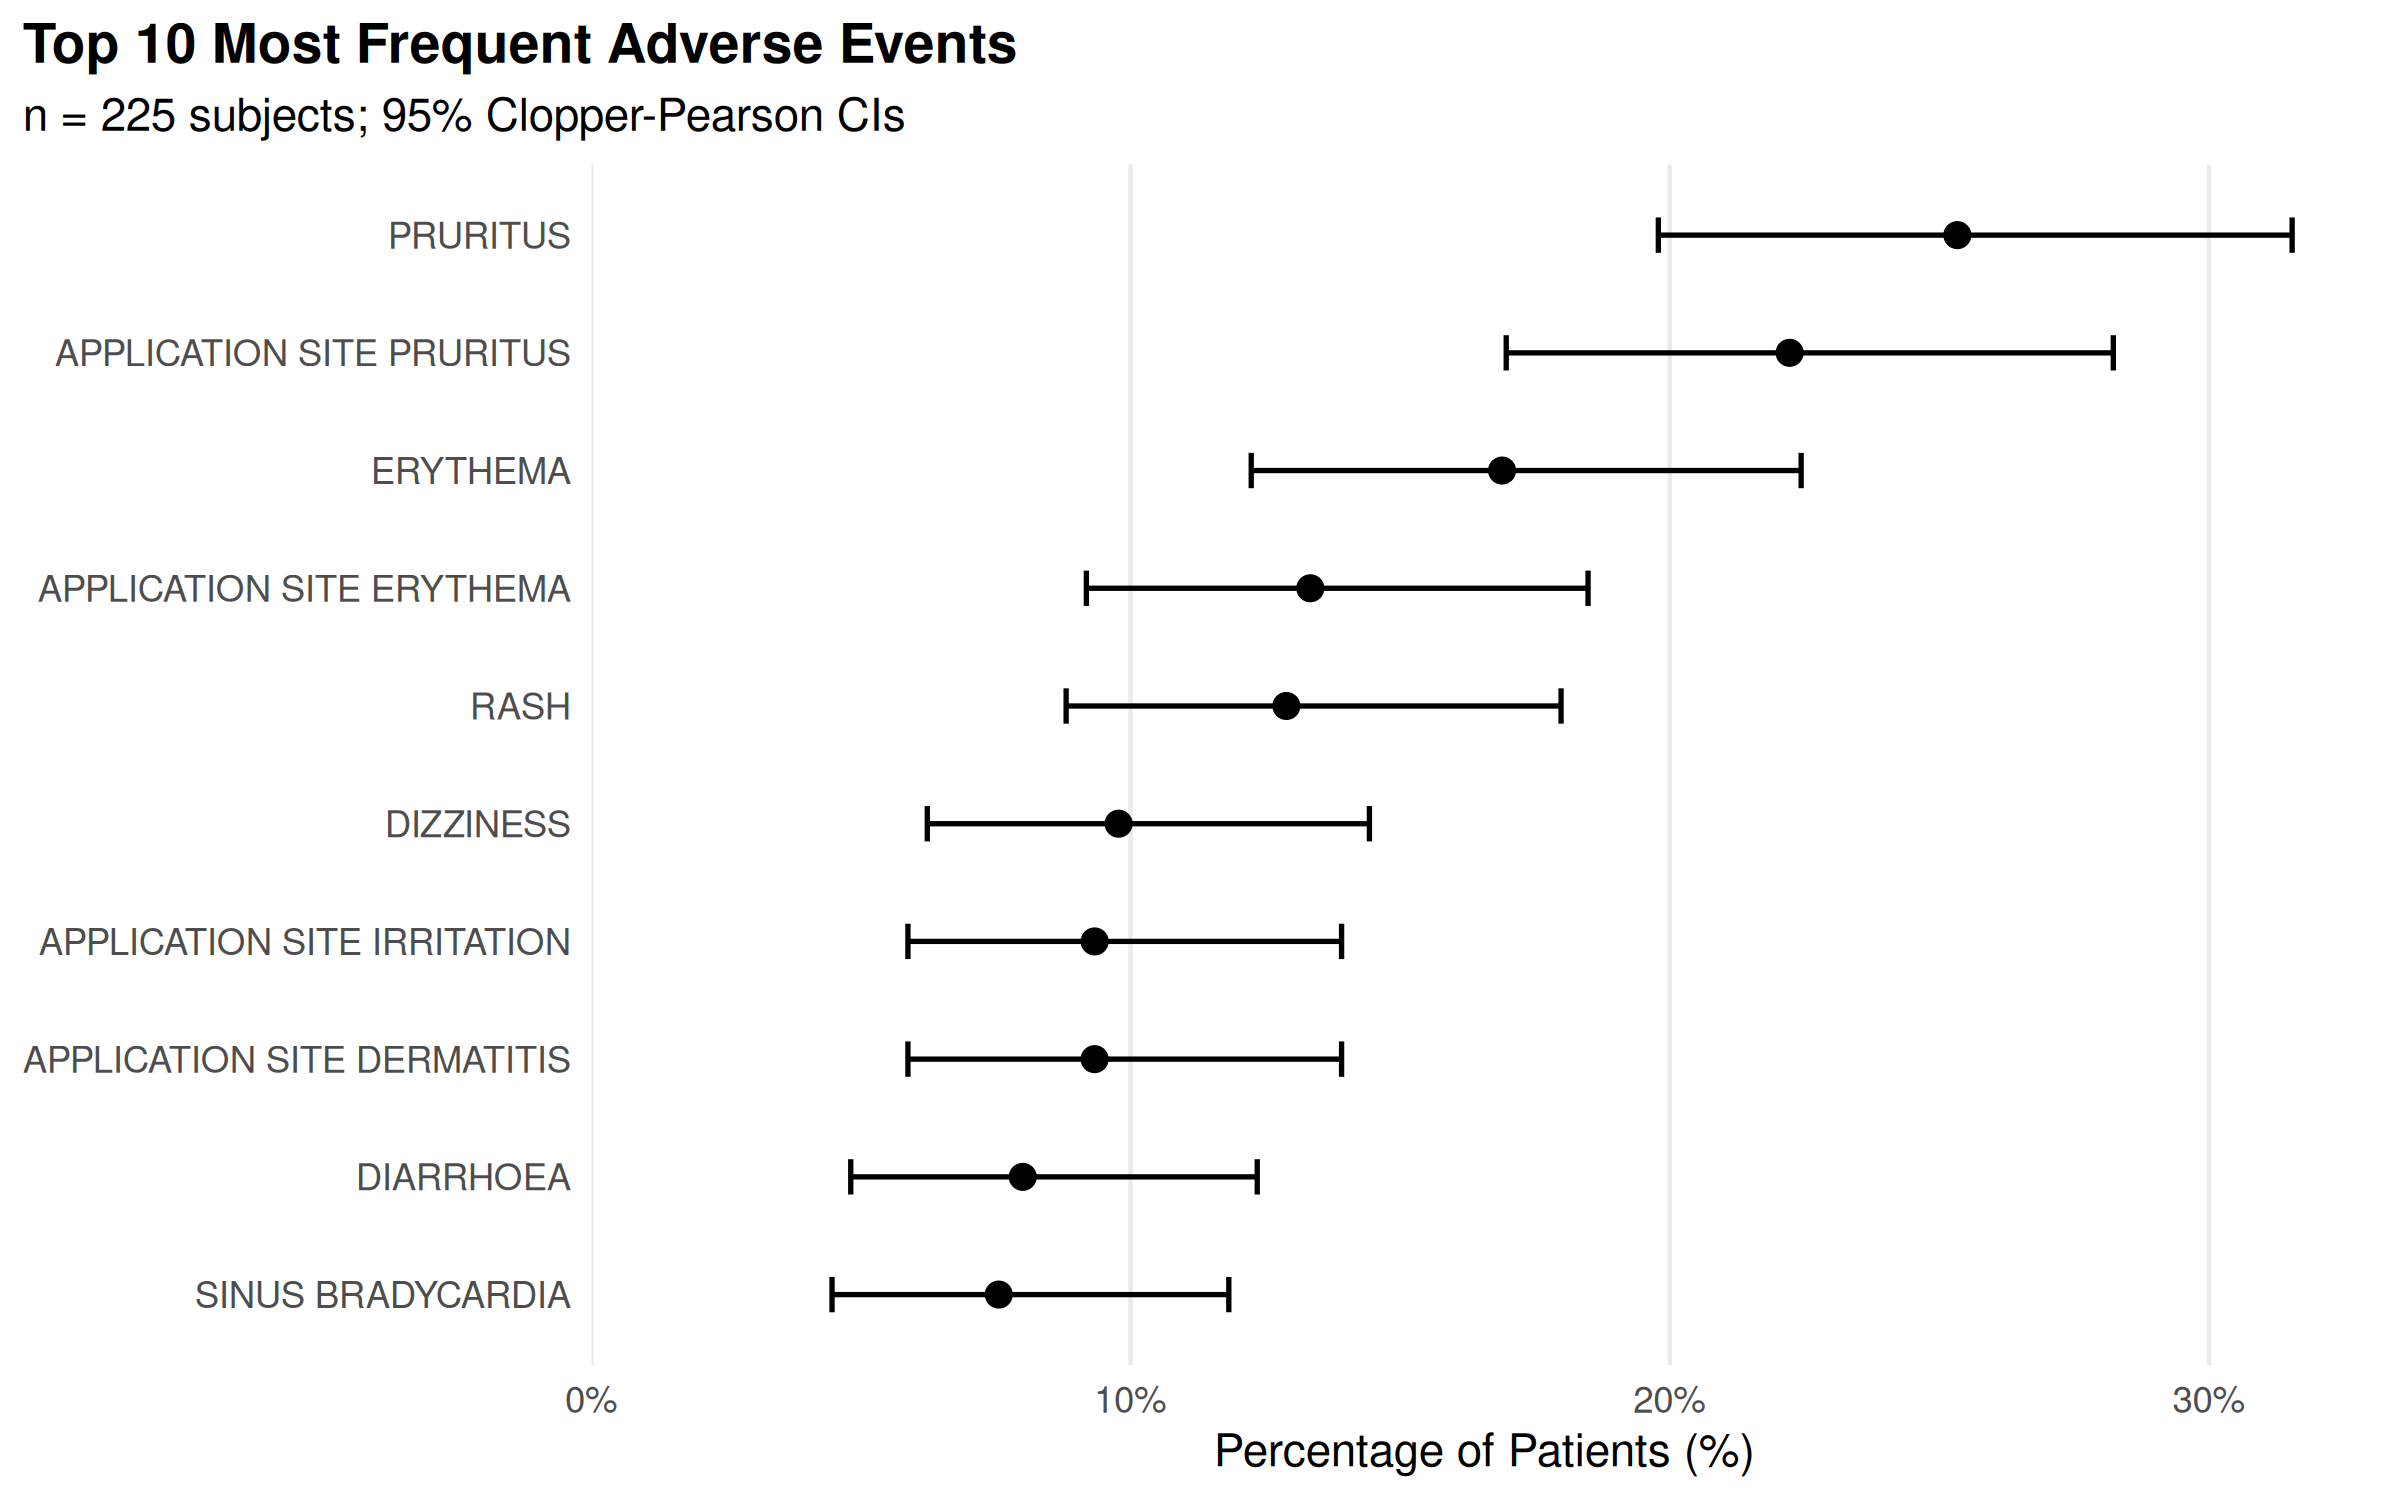
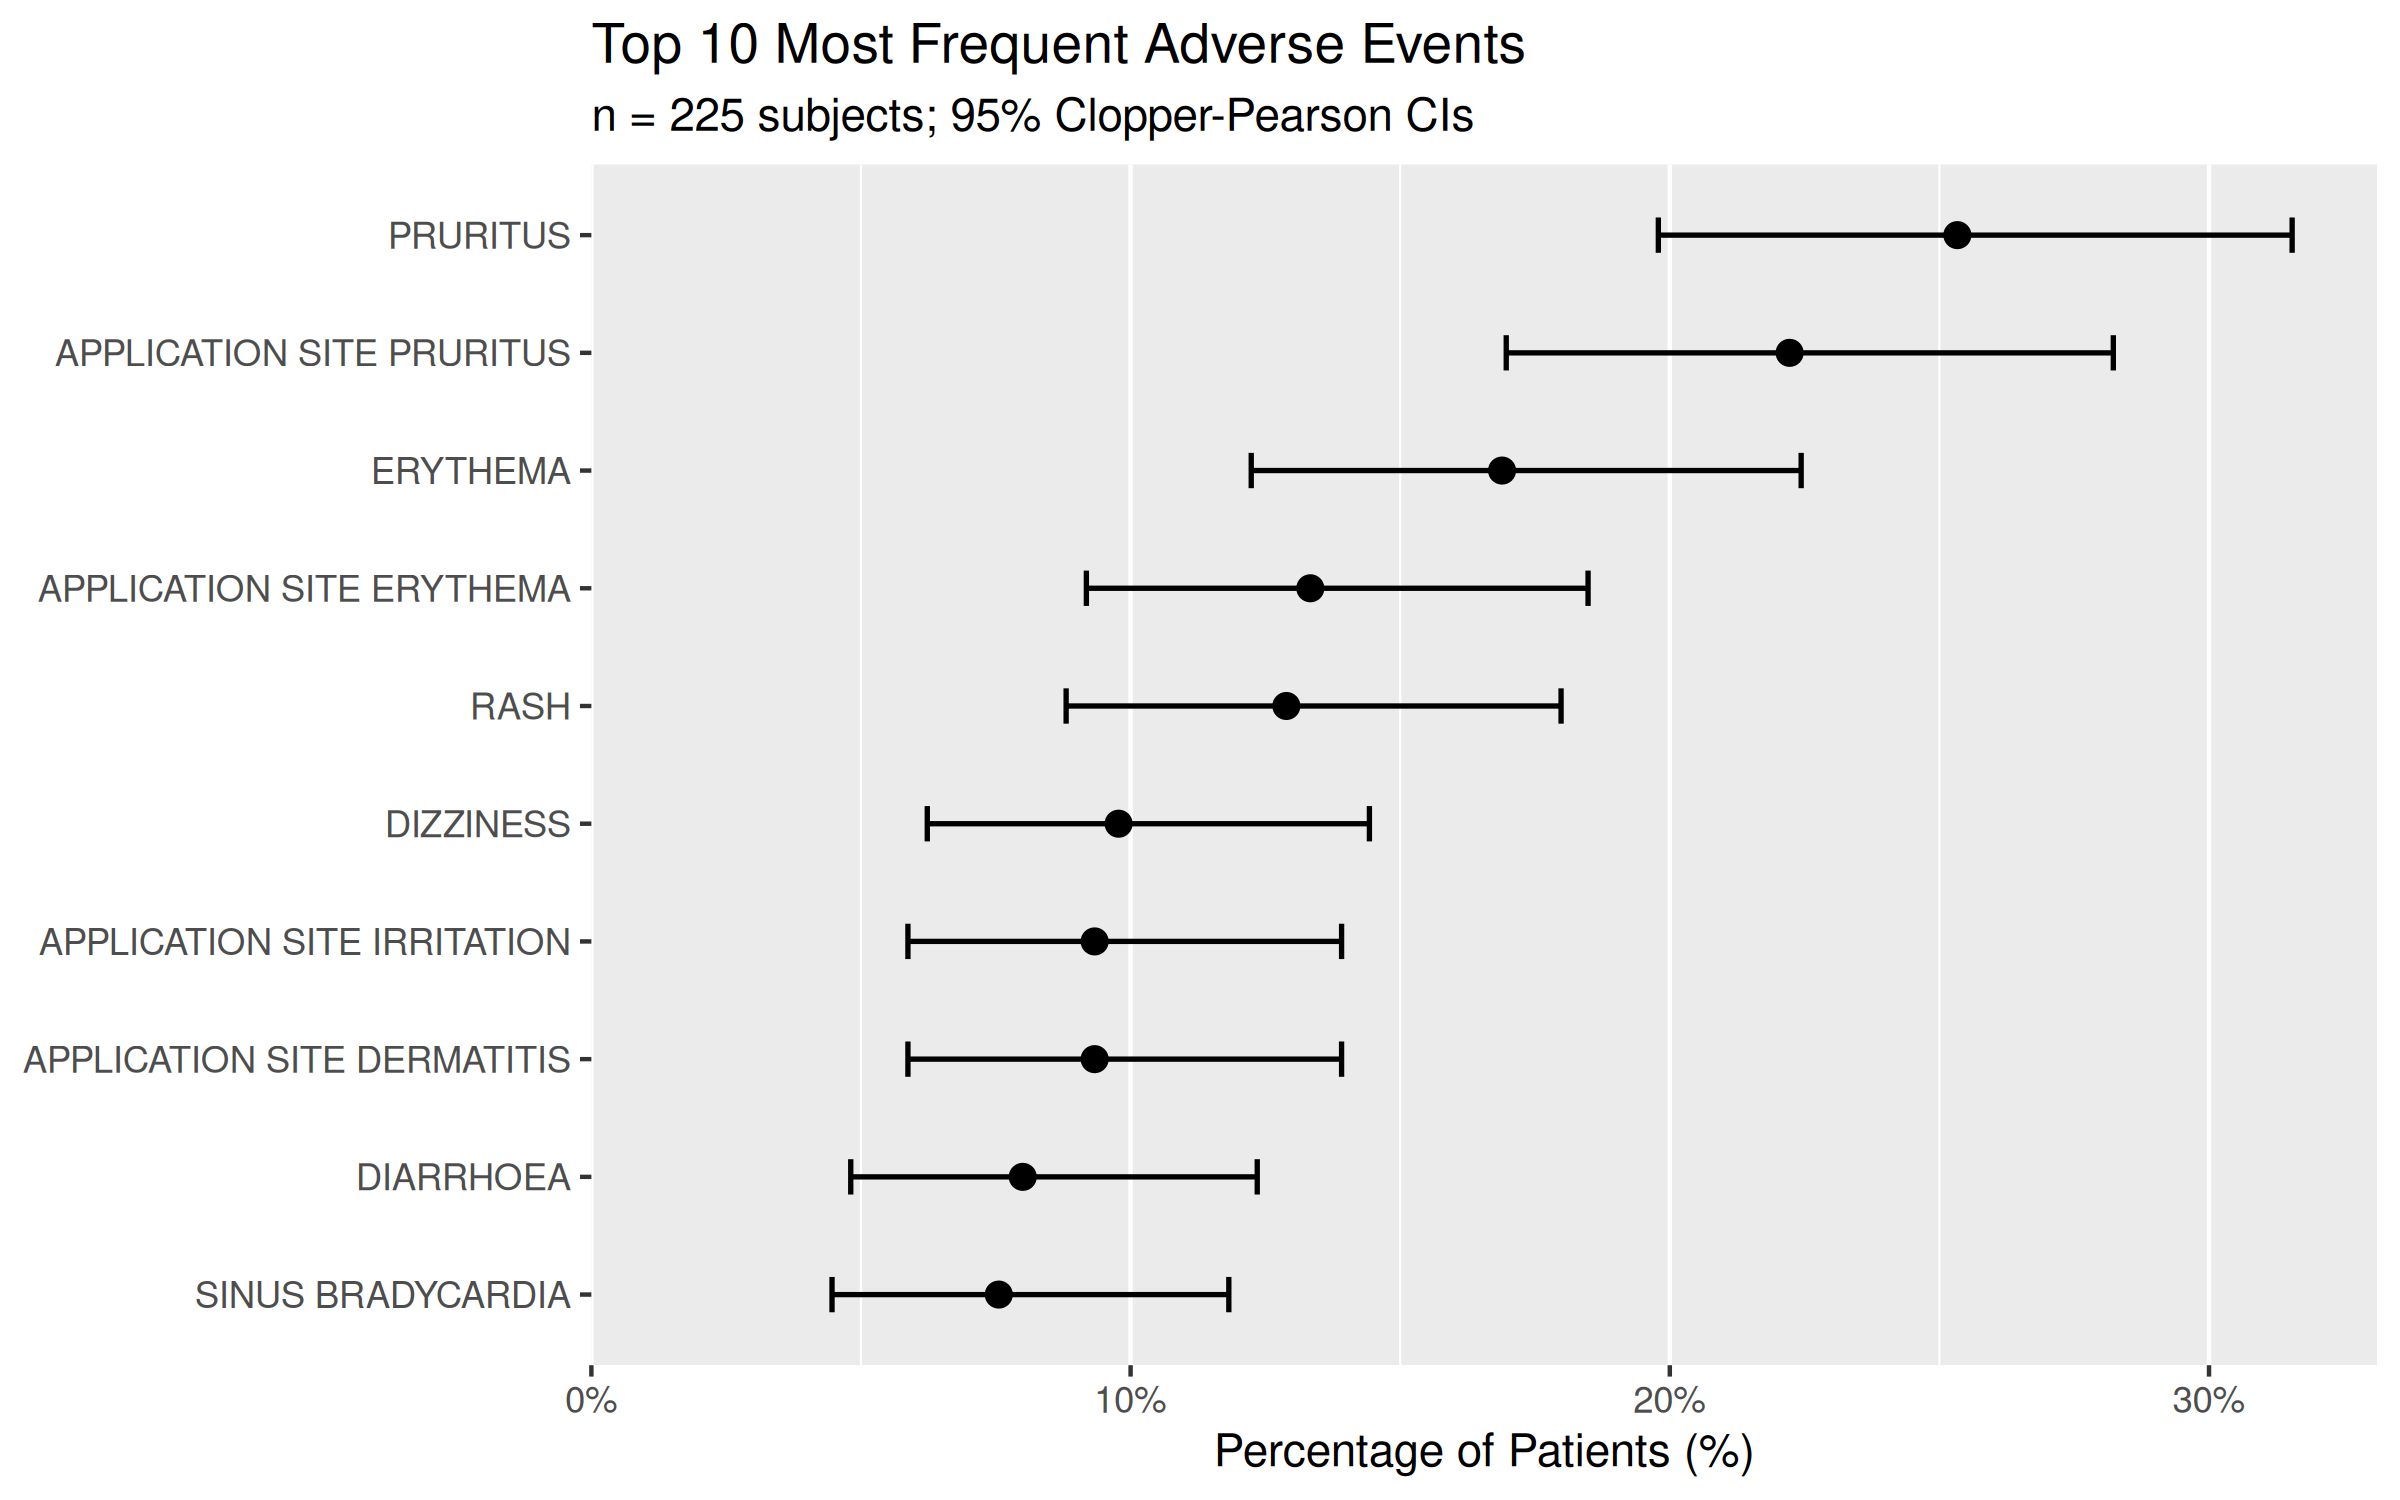
changed plot theme to match example in assessment

Changed region(s): [[0.0, 0.0, 0.625, 0.092]]

diff --git a/question_3_tlg/output/ae_summary_table.html b/question_3_tlg/output/ae_summary_table.html
@@ -7,23 +7,23 @@
 
 </head>
 <body>
-<div id="damndconpb" style="padding-left:0px;padding-right:0px;padding-top:10px;padding-bottom:10px;overflow-x:auto;overflow-y:auto;width:auto;height:auto;">
-  <style>#damndconpb table {
+<div id="gvdajnyocy" style="padding-left:0px;padding-right:0px;padding-top:10px;padding-bottom:10px;overflow-x:auto;overflow-y:auto;width:auto;height:auto;">
+  <style>#gvdajnyocy table {
   font-family: system-ui, 'Segoe UI', Roboto, Helvetica, Arial, sans-serif, 'Apple Color Emoji', 'Segoe UI Emoji', 'Segoe UI Symbol', 'Noto Color Emoji';
   -webkit-font-smoothing: antialiased;
   -moz-osx-font-smoothing: grayscale;
 }
 
-#damndconpb thead, #damndconpb tbody, #damndconpb tfoot, #damndconpb tr, #damndconpb td, #damndconpb th {
+#gvdajnyocy thead, #gvdajnyocy tbody, #gvdajnyocy tfoot, #gvdajnyocy tr, #gvdajnyocy td, #gvdajnyocy th {
   border-style: none;
 }
 
-#damndconpb p {
+#gvdajnyocy p {
   margin: 0;
   padding: 0;
 }
 
-#damndconpb .gt_table {
+#gvdajnyocy .gt_table {
   display: table;
   border-collapse: collapse;
   line-height: normal;
@@ -49,12 +49,12 @@
   border-left-color: #D3D3D3;
 }
 
-#damndconpb .gt_caption {
+#gvdajnyocy .gt_caption {
   padding-top: 4px;
   padding-bottom: 4px;
 }
 
-#damndconpb .gt_title {
+#gvdajnyocy .gt_title {
   color: #333333;
   font-size: 125%;
   font-weight: initial;
@@ -66,7 +66,7 @@
   border-bottom-width: 0;
 }
 
-#damndconpb .gt_subtitle {
+#gvdajnyocy .gt_subtitle {
   color: #333333;
   font-size: 85%;
   font-weight: initial;
@@ -78,7 +78,7 @@
   border-top-width: 0;
 }
 
-#damndconpb .gt_heading {
+#gvdajnyocy .gt_heading {
   background-color: #FFFFFF;
   text-align: center;
   border-bottom-color: #FFFFFF;
@@ -90,13 +90,13 @@
   border-right-color: #D3D3D3;
 }
 
-#damndconpb .gt_bottom_border {
+#gvdajnyocy .gt_bottom_border {
   border-bottom-style: solid;
   border-bottom-width: 2px;
   border-bottom-color: #D3D3D3;
 }
 
-#damndconpb .gt_col_headings {
+#gvdajnyocy .gt_col_headings {
   border-top-style: solid;
   border-top-width: 2px;
   border-top-color: #D3D3D3;
@@ -111,7 +111,7 @@
   border-right-color: #D3D3D3;
 }
 
-#damndconpb .gt_col_heading {
+#gvdajnyocy .gt_col_heading {
   color: #333333;
   background-color: #FFFFFF;
   font-size: 100%;
@@ -131,7 +131,7 @@
   overflow-x: hidden;
 }
 
-#damndconpb .gt_column_spanner_outer {
+#gvdajnyocy .gt_column_spanner_outer {
   color: #333333;
   background-color: #FFFFFF;
   font-size: 100%;
@@ -143,15 +143,15 @@
   padding-right: 4px;
 }
 
-#damndconpb .gt_column_spanner_outer:first-child {
+#gvdajnyocy .gt_column_spanner_outer:first-child {
   padding-left: 0;
 }
 
-#damndconpb .gt_column_spanner_outer:last-child {
+#gvdajnyocy .gt_column_spanner_outer:last-child {
   padding-right: 0;
 }
 
-#damndconpb .gt_column_spanner {
+#gvdajnyocy .gt_column_spanner {
   border-bottom-style: solid;
   border-bottom-width: 2px;
   border-bottom-color: #D3D3D3;
@@ -163,11 +163,11 @@
   width: 100%;
 }
 
-#damndconpb .gt_spanner_row {
+#gvdajnyocy .gt_spanner_row {
   border-bottom-style: hidden;
 }
 
-#damndconpb .gt_group_heading {
+#gvdajnyocy .gt_group_heading {
   padding-top: 8px;
   padding-bottom: 8px;
   padding-left: 5px;
@@ -193,7 +193,7 @@
   text-align: left;
 }
 
-#damndconpb .gt_empty_group_heading {
+#gvdajnyocy .gt_empty_group_heading {
   padding: 0.5px;
   color: #333333;
   background-color: #FFFFFF;
@@ -208,15 +208,15 @@
   vertical-align: middle;
 }
 
-#damndconpb .gt_from_md > :first-child {
+#gvdajnyocy .gt_from_md > :first-child {
   margin-top: 0;
 }
 
-#damndconpb .gt_from_md > :last-child {
+#gvdajnyocy .gt_from_md > :last-child {
   margin-bottom: 0;
 }
 
-#damndconpb .gt_row {
+#gvdajnyocy .gt_row {
   padding-top: 8px;
   padding-bottom: 8px;
   padding-left: 5px;
@@ -235,7 +235,7 @@
   overflow-x: hidden;
 }
 
-#damndconpb .gt_stub {
+#gvdajnyocy .gt_stub {
   color: #333333;
   background-color: #FFFFFF;
   font-size: 100%;
@@ -248,7 +248,7 @@
   padding-right: 5px;
 }
 
-#damndconpb .gt_stub_row_group {
+#gvdajnyocy .gt_stub_row_group {
   color: #333333;
   background-color: #FFFFFF;
   font-size: 100%;
@@ -262,15 +262,15 @@
   vertical-align: top;
 }
 
-#damndconpb .gt_row_group_first td {
+#gvdajnyocy .gt_row_group_first td {
   border-top-width: 2px;
 }
 
-#damndconpb .gt_row_group_first th {
+#gvdajnyocy .gt_row_group_first th {
   border-top-width: 2px;
 }
 
-#damndconpb .gt_summary_row {
+#gvdajnyocy .gt_summary_row {
   color: #333333;
   background-color: #FFFFFF;
   text-transform: inherit;
@@ -280,16 +280,16 @@
   padding-right: 5px;
 }
 
-#damndconpb .gt_first_summary_row {
+#gvdajnyocy .gt_first_summary_row {
   border-top-style: solid;
   border-top-color: #D3D3D3;
 }
 
-#damndconpb .gt_first_summary_row.thick {
+#gvdajnyocy .gt_first_summary_row.thick {
   border-top-width: 2px;
 }
 
-#damndconpb .gt_last_summary_row {
+#gvdajnyocy .gt_last_summary_row {
   padding-top: 8px;
   padding-bottom: 8px;
   padding-left: 5px;
@@ -299,7 +299,7 @@
   border-bottom-color: #D3D3D3;
 }
 
-#damndconpb .gt_grand_summary_row {
+#gvdajnyocy .gt_grand_summary_row {
   color: #333333;
   background-color: #FFFFFF;
   text-transform: inherit;
@@ -309,7 +309,7 @@
   padding-right: 5px;
 }
 
-#damndconpb .gt_first_grand_summary_row {
+#gvdajnyocy .gt_first_grand_summary_row {
   padding-top: 8px;
   padding-bottom: 8px;
   padding-left: 5px;
@@ -319,7 +319,7 @@
   border-top-color: #D3D3D3;
 }
 
-#damndconpb .gt_last_grand_summary_row_top {
+#gvdajnyocy .gt_last_grand_summary_row_top {
   padding-top: 8px;
   padding-bottom: 8px;
   padding-left: 5px;
@@ -329,11 +329,11 @@
   border-bottom-color: #D3D3D3;
 }
 
-#damndconpb .gt_striped {
+#gvdajnyocy .gt_striped {
   background-color: rgba(128, 128, 128, 0.05);
 }
 
-#damndconpb .gt_table_body {
+#gvdajnyocy .gt_table_body {
   border-top-style: solid;
   border-top-width: 2px;
   border-top-color: #D3D3D3;
@@ -342,7 +342,7 @@
   border-bottom-color: #D3D3D3;
 }
 
-#damndconpb .gt_footnotes {
+#gvdajnyocy .gt_footnotes {
   color: #333333;
   background-color: #FFFFFF;
   border-bottom-style: none;
@@ -356,7 +356,7 @@
   border-right-color: #D3D3D3;
 }
 
-#damndconpb .gt_footnote {
+#gvdajnyocy .gt_footnote {
   margin: 0px;
   font-size: 90%;
   padding-top: 4px;
@@ -365,7 +365,7 @@
   padding-right: 5px;
 }
 
-#damndconpb .gt_sourcenotes {
+#gvdajnyocy .gt_sourcenotes {
   color: #333333;
   background-color: #FFFFFF;
   border-bottom-style: none;
@@ -379,7 +379,7 @@
   border-right-color: #D3D3D3;
 }
 
-#damndconpb .gt_sourcenote {
+#gvdajnyocy .gt_sourcenote {
   font-size: 90%;
   padding-top: 4px;
   padding-bottom: 4px;
@@ -387,72 +387,72 @@
   padding-right: 5px;
 }
 
-#damndconpb .gt_left {
+#gvdajnyocy .gt_left {
   text-align: left;
 }
 
-#damndconpb .gt_center {
+#gvdajnyocy .gt_center {
   text-align: center;
 }
 
-#damndconpb .gt_right {
+#gvdajnyocy .gt_right {
   text-align: right;
   font-variant-numeric: tabular-nums;
 }
 
-#damndconpb .gt_font_normal {
+#gvdajnyocy .gt_font_normal {
   font-weight: normal;
 }
 
-#damndconpb .gt_font_bold {
+#gvdajnyocy .gt_font_bold {
   font-weight: bold;
 }
 
-#damndconpb .gt_font_italic {
+#gvdajnyocy .gt_font_italic {
   font-style: italic;
 }
 
-#damndconpb .gt_super {
+#gvdajnyocy .gt_super {
   font-size: 65%;
 }
 
-#damndconpb .gt_footnote_marks {
+#gvdajnyocy .gt_footnote_marks {
   font-size: 75%;
   vertical-align: 0.4em;
   position: initial;
 }
 
-#damndconpb .gt_asterisk {
+#gvdajnyocy .gt_asterisk {
   font-size: 100%;
   vertical-align: 0;
 }
 
-#damndconpb .gt_indent_1 {
+#gvdajnyocy .gt_indent_1 {
   text-indent: 5px;
 }
 
-#damndconpb .gt_indent_2 {
+#gvdajnyocy .gt_indent_2 {
   text-indent: 10px;
 }
 
-#damndconpb .gt_indent_3 {
+#gvdajnyocy .gt_indent_3 {
   text-indent: 15px;
 }
 
-#damndconpb .gt_indent_4 {
+#gvdajnyocy .gt_indent_4 {
   text-indent: 20px;
 }
 
-#damndconpb .gt_indent_5 {
+#gvdajnyocy .gt_indent_5 {
   text-indent: 25px;
 }
 
-#damndconpb .katex-display {
+#gvdajnyocy .katex-display {
   display: inline-flex !important;
   margin-bottom: 0.75em !important;
 }
 
-#damndconpb div.Reactable > div.rt-table > div.rt-thead > div.rt-tr.rt-tr-group-header > div.rt-th-group:after {
+#gvdajnyocy div.Reactable > div.rt-table > div.rt-thead > div.rt-tr.rt-tr-group-header > div.rt-th-group:after {
   height: 0px !important;
 }
 </style>
